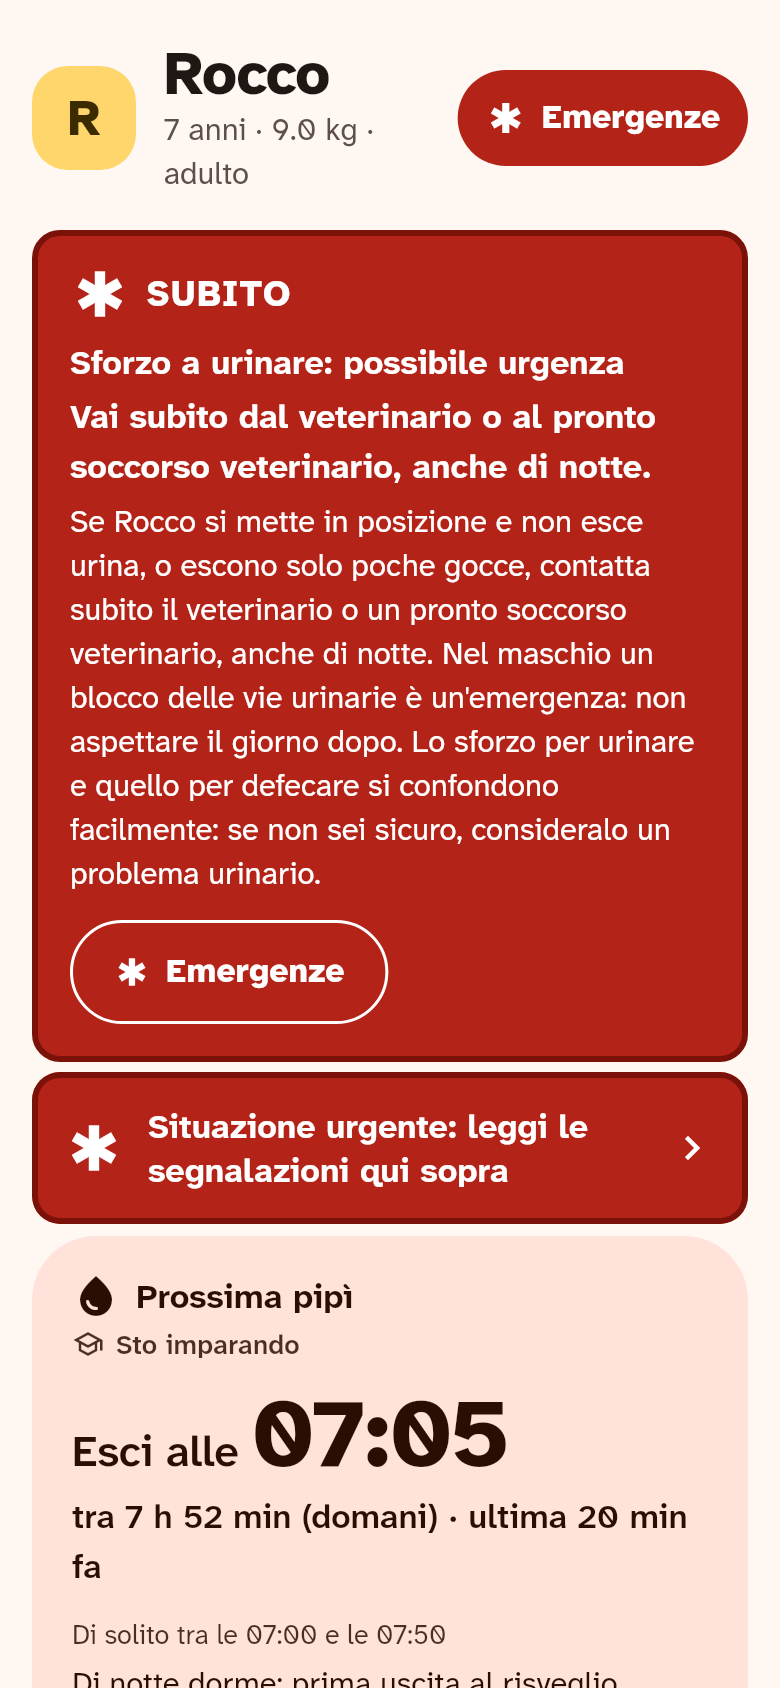
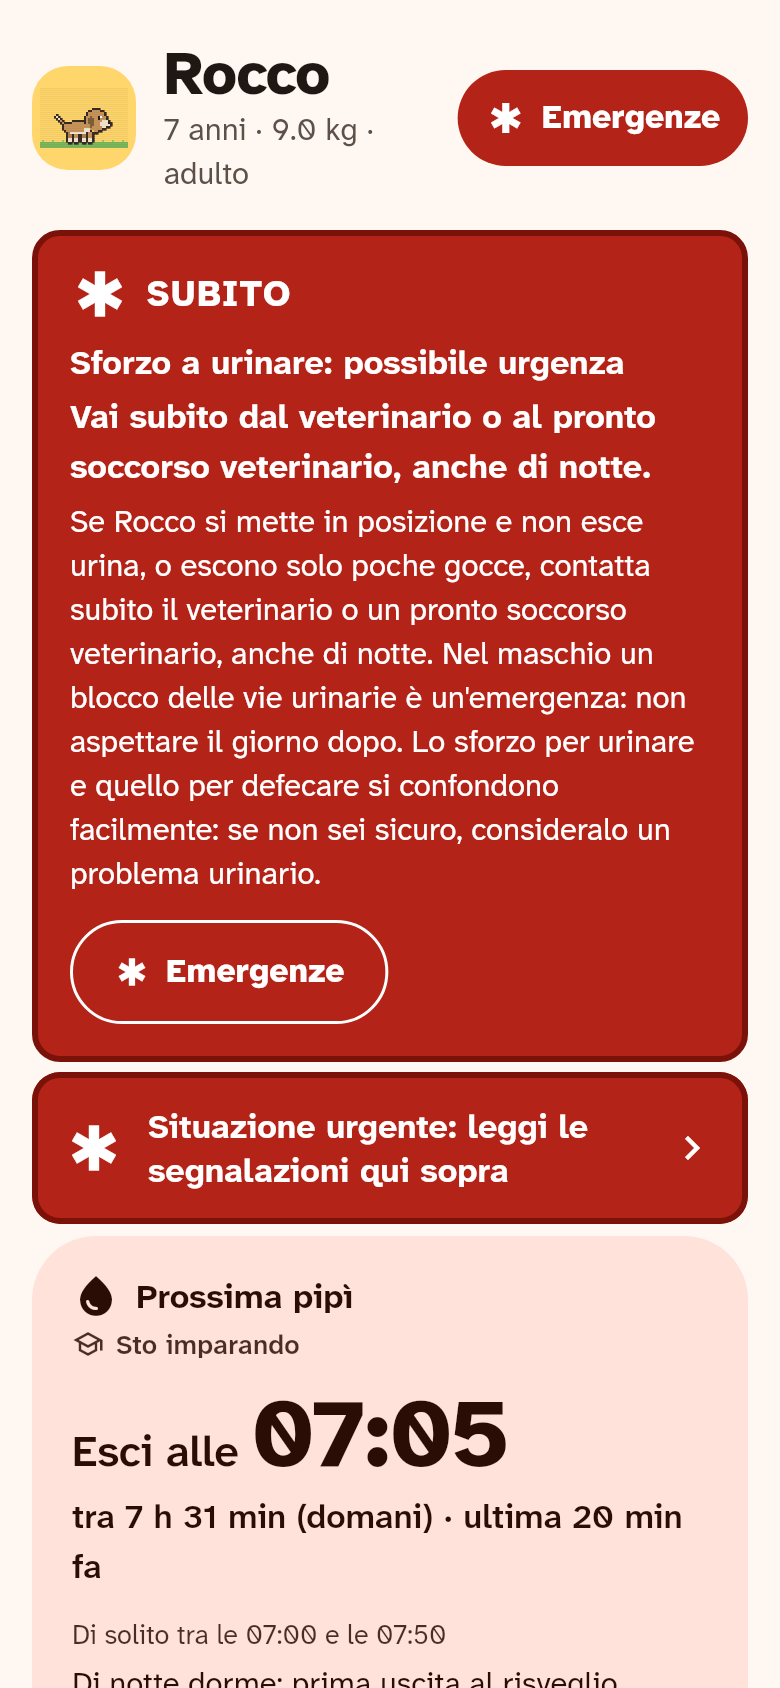
Tamagotchi 3/3: il compagno in piccolo nell'intestazione di tutte le schede
Al posto dell'iniziale del nome, il cane personalizzato in miniatura
(decorativo per i lettori di schermo; il nome resta scritto accanto).
Rapporto aggiornato con i tre commit del tamagotchi, annullabili uno per uno.

Claude-Session: https://claude.ai/code/session_01NAXe8H7eZJo779qoyzjvSp

Changed region(s): [[0.2462, 0.8934, 0.8923, 0.9242], [0.0615, 0.0616, 0.1538, 0.0924]]

diff --git a/lib/ui/home_screen.dart b/lib/ui/home_screen.dart
@@ -336,12 +336,11 @@ class DogHeader extends StatelessWidget {
                     color: c.dark ? Palette.nightMustard : Palette.mustard,
                     borderRadius: BorderRadius.circular(Radii.field),
                   ),
-                  child: Text(
-                    dog.name.isEmpty ? '?' : dog.name[0].toUpperCase(),
-                    style: t.textTheme.headlineSmall?.copyWith(
-                      color: Palette.mustardInk,
-                      fontWeight: FontWeight.w800,
-                    ),
+                  clipBehavior: Clip.antiAlias,
+                  // Il compagno in piccolo: lo stesso cane personalizzato.
+                  child: Padding(
+                    padding: const EdgeInsets.all(4),
+                    child: PixelDogView(look: dog.look, height: 44),
                   ),
                 ),
               ),

diff --git a/LULU-WEB-REPORT.md b/LULU-WEB-REPORT.md
@@ -346,3 +346,20 @@ nell'app vera, in chiaro e in scuro.
   degli stati, pelo a fiocchi o riccio, muso corto o lungo, accessori, preimpostazioni per razza,
   colori proposti da una foto (in locale), legami con le attività del giorno.
 - **Test**: `flutter analyze` pulito; `flutter test` 190 passati.
+
+## Aggiornamento: tamagotchi integrato (3 commit separati, annullabili)
+
+1. `7705c3e` **Stati d'animo**: scodinzola anche dopo un pasto; sereno e premuroso con una scadenza
+   entro 7 giorni (se è passata, «da fare quando puoi», senza rimproveri); felice quando le cose di
+   oggi sono fatte. Restano le regole di prima: con un allarme è preoccupato, mai felice; dorme negli
+   orari di sonno; impaziente quando la pipì prevista si avvicina (previsione letta, non modificata).
+2. `30c578e` **Personalizzazione**: pelo raso, lungo, riccio o a fiocchi; muso corto, medio o lungo;
+   orecchie lunghe; accessorio (collare, fiocco, bandana); 13 razze di partenza; Lulù (bolognese a
+   fiocchi con fiocco corallo) nel primo avvio. I dati salvati prima restano validi.
+3. **Compagno in piccolo** nell'intestazione di tutte le schede, al posto dell'iniziale del nome.
+
+Per annullare una parte basta `git revert <commit>`.
+
+Non fatto, da decidere: compagno nelle notifiche e widget Android (dopo), colori proposti da una
+foto (in locale). Animazioni: restano quelle a pochi frame già presenti; ferme con «riduci movimento».
+Test: 197 passati; analyze pulito.
